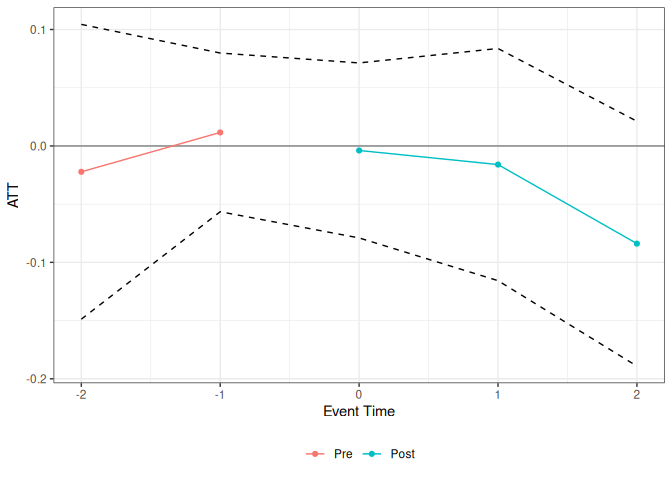
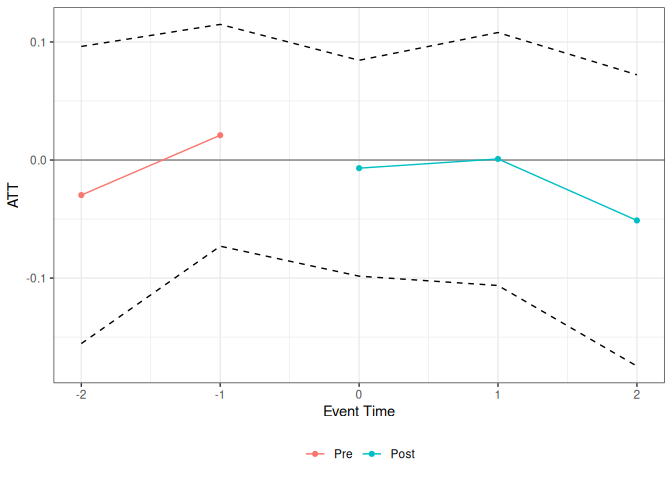
Rebuild README and pkgdown site for 0.1.2; fix NEWS formatting
Re-render README so the level event-study output reflects the DRDID
fix. Remove the 4-space indentation from NEWS.md entries, which made
pkgdown render every changelog entry as a code block instead of a list.

README.qmd is unchanged; README.md only differs because the package's
output changed, so the hook's both-files-staged check doesn't apply.

diff --git a/docs/news/index.html b/docs/news/index.html
@@ -7,7 +7,7 @@
 
     <a class="navbar-brand me-2" href="../index.html">contdid</a>
 
-    <small class="nav-text text-muted me-auto" data-bs-toggle="tooltip" data-bs-placement="bottom" title="">0.1.1</small>
+    <small class="nav-text text-muted me-auto" data-bs-toggle="tooltip" data-bs-placement="bottom" title="">0.1.2</small>
 
 
     <button class="navbar-toggler" type="button" data-bs-toggle="collapse" data-bs-target="#navbar" aria-controls="navbar" aria-expanded="false" aria-label="Toggle navigation">
@@ -31,20 +31,30 @@
     </div>
 
     <div class="section level2">
+<h2 class="pkg-version" data-toc-text="0.1.2" id="contdid-012">contdid 0.1.2<a class="anchor" aria-label="anchor" href="#contdid-012"></a></h2>
+<ul><li>Bug fix: <code><a href="../reference/cont_did.html">cont_did()</a></code> with <code>target_parameter = "level"</code> and <code>aggregation = "eventstudy"</code> passed the continuous dose, rather than a treated/comparison indicator, to the underlying DiD estimator. This made the estimator weight treated units by their dose and put weight on some treated units in the comparison group, so event-study <code>ATT</code> estimates from earlier versions were biased when treatment effects are nonzero. With DRDID &gt;= 1.4.0, which now requires a binary treatment indicator, this case failed with an error instead. Other combinations of <code>target_parameter</code> and <code>aggregation</code> were not affected.</li>
+</ul></div>
+    <div class="section level2">
+<h2 class="pkg-version" data-toc-text="0.1.1" id="contdid-011">contdid 0.1.1<a class="anchor" aria-label="anchor" href="#contdid-011"></a></h2><p class="text-muted">CRAN release: 2026-07-21</p>
+<ul><li>Resubmission to CRAN following archival on 2026-07-16 (contdid was archived because its dependency <code>ptetools</code> had been archived; <code>ptetools</code> has since been restored to CRAN as version 1.0.1).</li>
+<li>Require <code>ptetools (&gt;= 1.0.1)</code> in <code>Imports</code> to prevent recurrence.</li>
+<li>Update <code><a href="../reference/ggcont_did.html">ggcont_did()</a></code> to use <code>ptetools</code>’s <code>autoplot()</code> methods in place of the now-deprecated <code>ggpte()</code>/<code>ggpte_cont()</code>.</li>
+</ul></div>
+    <div class="section level2">
 <h2 class="pkg-version" data-toc-text="0.1.0" id="contdid-010">contdid 0.1.0<a class="anchor" aria-label="anchor" href="#contdid-010"></a></h2><p class="text-muted">CRAN release: 2025-07-03</p>
-<div class="sourceCode" id="cb1"><pre class="sourceCode R"><code class="sourceCode r"><span id="cb1-1"><a href="#cb1-1" tabindex="-1"></a><span class="sc">*</span> Initial CRAN submission.</span>
-<span id="cb1-2"><a href="#cb1-2" tabindex="-1"></a><span class="sc">*</span> CCK estimation is working <span class="cf">for</span> case with two periods.</span>
-<span id="cb1-3"><a href="#cb1-3" tabindex="-1"></a><span class="sc">*</span> Change default parametric specification to cubic polynomial.</span>
-<span id="cb1-4"><a href="#cb1-4" tabindex="-1"></a><span class="sc">*</span> Bug fix <span class="cf">for</span> variable names.</span></code></pre></div>
-</div>
+<ul><li>Initial CRAN submission.</li>
+<li>CCK estimation is working for case with two periods.</li>
+<li>Change default parametric specification to cubic polynomial.</li>
+<li>Bug fix for variable names.</li>
+</ul></div>
     <div class="section level2">
 <h2 class="pkg-version" data-toc-text="0.0.002" id="contdid-00002">contdid 0.0.002<a class="anchor" aria-label="anchor" href="#contdid-00002"></a></h2>
-<div class="sourceCode" id="cb2"><pre class="sourceCode R"><code class="sourceCode r"><span id="cb2-1"><a href="#cb2-1" tabindex="-1"></a><span class="sc">*</span> Added sanity checks <span class="cf">for</span> unexpected input data.</span></code></pre></div>
-</div>
+<ul><li>Added sanity checks for unexpected input data.</li>
+</ul></div>
     <div class="section level2">
 <h2 class="pkg-version" data-toc-text="0.0.001" id="contdid-00001">contdid 0.0.001<a class="anchor" aria-label="anchor" href="#contdid-00001"></a></h2>
-<div class="sourceCode" id="cb3"><pre class="sourceCode R"><code class="sourceCode r"><span id="cb3-1"><a href="#cb3-1" tabindex="-1"></a><span class="sc">*</span> Initial version.</span></code></pre></div>
-</div>
+<ul><li>Initial version.</li>
+</ul></div>
   </main><aside class="col-md-3"><nav id="toc" aria-label="Table of contents"><h2>On this page</h2>
     </nav></aside></div>
 

diff --git a/docs/index.html b/docs/index.html
@@ -22,7 +22,7 @@
 
     <a class="navbar-brand me-2" href="index.html">contdid</a>
 
-    <small class="nav-text text-muted me-auto" data-bs-toggle="tooltip" data-bs-placement="bottom" title="">0.1.1</small>
+    <small class="nav-text text-muted me-auto" data-bs-toggle="tooltip" data-bs-placement="bottom" title="">0.1.2</small>
 
 
     <button class="navbar-toggler" type="button" data-bs-toggle="collapse" data-bs-target="#navbar" aria-controls="navbar" aria-expanded="false" aria-label="Toggle navigation">
@@ -212,16 +212,16 @@
 <span><span class="co">#&gt; </span></span>
 <span><span class="co">#&gt; Overall ATT:  </span></span>
 <span><span class="co">#&gt;      ATT    Std. Error     [ 95%  Conf. Int.] </span></span>
-<span><span class="co">#&gt;  -0.0243        0.0289    -0.0808      0.0323 </span></span>
+<span><span class="co">#&gt;  -0.0265        0.0333    -0.0918      0.0389 </span></span>
 <span><span class="co">#&gt; </span></span>
 <span><span class="co">#&gt; </span></span>
 <span><span class="co">#&gt; Dynamic Effects:</span></span>
 <span><span class="co">#&gt;  Event Time Estimate Std. Error [95% Simult.  Conf. Band] </span></span>
-<span><span class="co">#&gt;          -2  -0.0222     0.0504       -0.1488      0.1044 </span></span>
-<span><span class="co">#&gt;          -1   0.0116     0.0271       -0.0565      0.0798 </span></span>
-<span><span class="co">#&gt;           0  -0.0039     0.0299       -0.0790      0.0713 </span></span>
-<span><span class="co">#&gt;           1  -0.0160     0.0397       -0.1157      0.0837 </span></span>
-<span><span class="co">#&gt;           2  -0.0839     0.0419       -0.1891      0.0212 </span></span>
+<span><span class="co">#&gt;          -2  -0.0297     0.0512       -0.1555      0.0962 </span></span>
+<span><span class="co">#&gt;          -1   0.0210     0.0382       -0.0730      0.1149 </span></span>
+<span><span class="co">#&gt;           0  -0.0069     0.0372       -0.0984      0.0845 </span></span>
+<span><span class="co">#&gt;           1   0.0009     0.0436       -0.1063      0.1080 </span></span>
+<span><span class="co">#&gt;           2  -0.0512     0.0502       -0.1746      0.0722 </span></span>
 <span><span class="co">#&gt; ---</span></span>
 <span><span class="co">#&gt; Signif. codes: `*' confidence band does not cover 0</span></span>
 <span><span class="fu"><a href="reference/ggcont_did.html">ggcont_did</a></span><span class="op">(</span><span class="va">cd_res_es_level</span><span class="op">)</span></span></code></pre></div>

diff --git a/docs/authors.html b/docs/authors.html
@@ -7,7 +7,7 @@
 
     <a class="navbar-brand me-2" href="index.html">contdid</a>
 
-    <small class="nav-text text-muted me-auto" data-bs-toggle="tooltip" data-bs-placement="bottom" title="">0.1.1</small>
+    <small class="nav-text text-muted me-auto" data-bs-toggle="tooltip" data-bs-placement="bottom" title="">0.1.2</small>
 
 
     <button class="navbar-toggler" type="button" data-bs-toggle="collapse" data-bs-target="#navbar" aria-controls="navbar" aria-expanded="false" aria-label="Toggle navigation">
@@ -50,15 +50,15 @@
       <h2 id="citation">Citation</h2>
       <p><small class="dont-index">Source: <a href="https://github.com/bcallaway11/contdid/blob/HEAD/inst/CITATION"><code>inst/CITATION</code></a></small></p>
 
-      <p>Callaway B, Goodman-Bacon A, Sant'Anna P (2025).
+      <p>Callaway B, Goodman-Bacon A, Sant'Anna P (2026).
 <em>Difference-in-Differences with a Continuous Treatment</em>.
-R package version 0.1.1, <a href="https://bcallaway11.github.io/contdid/" class="external-link">https://bcallaway11.github.io/contdid/</a>.
+R package version 0.1.2, <a href="https://bcallaway11.github.io/contdid/" class="external-link">https://bcallaway11.github.io/contdid/</a>.
 </p>
       <pre>@Manual{,
   title = {Difference-in-Differences with a Continuous Treatment},
   author = {Brantly Callaway and Andrew Goodman-Bacon and Pedro H. C. Sant'Anna},
-  year = {2025},
-  note = {R package version 0.1.1},
+  year = {2026},
+  note = {R package version 0.1.2},
   url = {https://bcallaway11.github.io/contdid/},
 }</pre>
     </div>

diff --git a/docs/reference/cont_did.html b/docs/reference/cont_did.html
@@ -13,7 +13,7 @@ B-splines under the hood."></head><body>
 
     <a class="navbar-brand me-2" href="../index.html">contdid</a>
 
-    <small class="nav-text text-muted me-auto" data-bs-toggle="tooltip" data-bs-placement="bottom" title="">0.1.1</small>
+    <small class="nav-text text-muted me-auto" data-bs-toggle="tooltip" data-bs-placement="bottom" title="">0.1.2</small>
 
 
     <button class="navbar-toggler" type="button" data-bs-toggle="collapse" data-bs-target="#navbar" aria-controls="navbar" aria-expanded="false" aria-label="Toggle navigation">
@@ -248,7 +248,9 @@ The multiplier bootstrap is generally much faster, but <code>attgt_fun</code> ne
 to provide an expression for the influence function (which could be challenging
 to figure out).  If no influence function is provided, then the <code>pte</code>
 package will use the empirical bootstrap no matter what the value of this
-parameter.</p></dd>
+parameter.  <code>bstrap = FALSE</code> (purely analytical standard errors) takes
+priority over <code>boot_type</code>: it is only available when <code>attgt_fun</code>
+returns an influence function, and it overrides <code>boot_type = "empirical"</code>.</p></dd>
 
 
 <dt id="arg-biters">biters<a class="anchor" aria-label="anchor" href="#arg-biters"></a></dt>

diff --git a/docs/reference/simulate_contdid_data.html b/docs/reference/simulate_contdid_data.html
@@ -19,7 +19,7 @@ is drawn from a uniform distribution between 0 and 1."></head><body>
 
     <a class="navbar-brand me-2" href="../index.html">contdid</a>
 
-    <small class="nav-text text-muted me-auto" data-bs-toggle="tooltip" data-bs-placement="bottom" title="">0.1.1</small>
+    <small class="nav-text text-muted me-auto" data-bs-toggle="tooltip" data-bs-placement="bottom" title="">0.1.2</small>
 
 
     <button class="navbar-toggler" type="button" data-bs-toggle="collapse" data-bs-target="#navbar" aria-controls="navbar" aria-expanded="false" aria-label="Toggle navigation">

diff --git a/docs/reference/cont_two_by_two_subset.html b/docs/reference/cont_two_by_two_subset.html
@@ -17,7 +17,7 @@ immediately before the treated group became treated."></head><body>
 
     <a class="navbar-brand me-2" href="../index.html">contdid</a>
 
-    <small class="nav-text text-muted me-auto" data-bs-toggle="tooltip" data-bs-placement="bottom" title="">0.1.1</small>
+    <small class="nav-text text-muted me-auto" data-bs-toggle="tooltip" data-bs-placement="bottom" title="">0.1.2</small>
 
 
     <button class="navbar-toggler" type="button" data-bs-toggle="collapse" data-bs-target="#navbar" aria-controls="navbar" aria-expanded="false" aria-label="Toggle navigation">

diff --git a/docs/reference/setup_pte_cont.html b/docs/reference/setup_pte_cont.html
@@ -11,7 +11,7 @@ continuous treatment."></head><body>
 
     <a class="navbar-brand me-2" href="../index.html">contdid</a>
 
-    <small class="nav-text text-muted me-auto" data-bs-toggle="tooltip" data-bs-placement="bottom" title="">0.1.1</small>
+    <small class="nav-text text-muted me-auto" data-bs-toggle="tooltip" data-bs-placement="bottom" title="">0.1.2</small>
 
 
     <button class="navbar-toggler" type="button" data-bs-toggle="collapse" data-bs-target="#navbar" aria-controls="navbar" aria-expanded="false" aria-label="Toggle navigation">

diff --git a/docs/404.html b/docs/404.html
@@ -20,7 +20,7 @@
 
     <a class="navbar-brand me-2" href="https://github.com/bcallaway11/contdid/index.html">contdid</a>
 
-    <small class="nav-text text-muted me-auto" data-bs-toggle="tooltip" data-bs-placement="bottom" title="">0.1.1</small>
+    <small class="nav-text text-muted me-auto" data-bs-toggle="tooltip" data-bs-placement="bottom" title="">0.1.2</small>
 
 
     <button class="navbar-toggler" type="button" data-bs-toggle="collapse" data-bs-target="#navbar" aria-controls="navbar" aria-expanded="false" aria-label="Toggle navigation">

diff --git a/docs/reference/cont_did_acrt.html b/docs/reference/cont_did_acrt.html
@@ -11,7 +11,7 @@ and time period."></head><body>
 
     <a class="navbar-brand me-2" href="../index.html">contdid</a>
 
-    <small class="nav-text text-muted me-auto" data-bs-toggle="tooltip" data-bs-placement="bottom" title="">0.1.1</small>
+    <small class="nav-text text-muted me-auto" data-bs-toggle="tooltip" data-bs-placement="bottom" title="">0.1.2</small>
 
 
     <button class="navbar-toggler" type="button" data-bs-toggle="collapse" data-bs-target="#navbar" aria-controls="navbar" aria-expanded="false" aria-label="Toggle navigation">

diff --git a/docs/reference/choose_knots_even.html b/docs/reference/choose_knots_even.html
@@ -7,7 +7,7 @@
 
     <a class="navbar-brand me-2" href="../index.html">contdid</a>
 
-    <small class="nav-text text-muted me-auto" data-bs-toggle="tooltip" data-bs-placement="bottom" title="">0.1.1</small>
+    <small class="nav-text text-muted me-auto" data-bs-toggle="tooltip" data-bs-placement="bottom" title="">0.1.2</small>
 
 
     <button class="navbar-toggler" type="button" data-bs-toggle="collapse" data-bs-target="#navbar" aria-controls="navbar" aria-expanded="false" aria-label="Toggle navigation">

diff --git a/docs/reference/choose_knots_quantile.html b/docs/reference/choose_knots_quantile.html
@@ -7,7 +7,7 @@
 
     <a class="navbar-brand me-2" href="../index.html">contdid</a>
 
-    <small class="nav-text text-muted me-auto" data-bs-toggle="tooltip" data-bs-placement="bottom" title="">0.1.1</small>
+    <small class="nav-text text-muted me-auto" data-bs-toggle="tooltip" data-bs-placement="bottom" title="">0.1.2</small>
 
 
     <button class="navbar-toggler" type="button" data-bs-toggle="collapse" data-bs-target="#navbar" aria-controls="navbar" aria-expanded="false" aria-label="Toggle navigation">

diff --git a/docs/reference/contdid-package.html b/docs/reference/contdid-package.html
@@ -7,7 +7,7 @@
 
     <a class="navbar-brand me-2" href="../index.html">contdid</a>
 
-    <small class="nav-text text-muted me-auto" data-bs-toggle="tooltip" data-bs-placement="bottom" title="">0.1.1</small>
+    <small class="nav-text text-muted me-auto" data-bs-toggle="tooltip" data-bs-placement="bottom" title="">0.1.2</small>
 
 
     <button class="navbar-toggler" type="button" data-bs-toggle="collapse" data-bs-target="#navbar" aria-controls="navbar" aria-expanded="false" aria-label="Toggle navigation">
